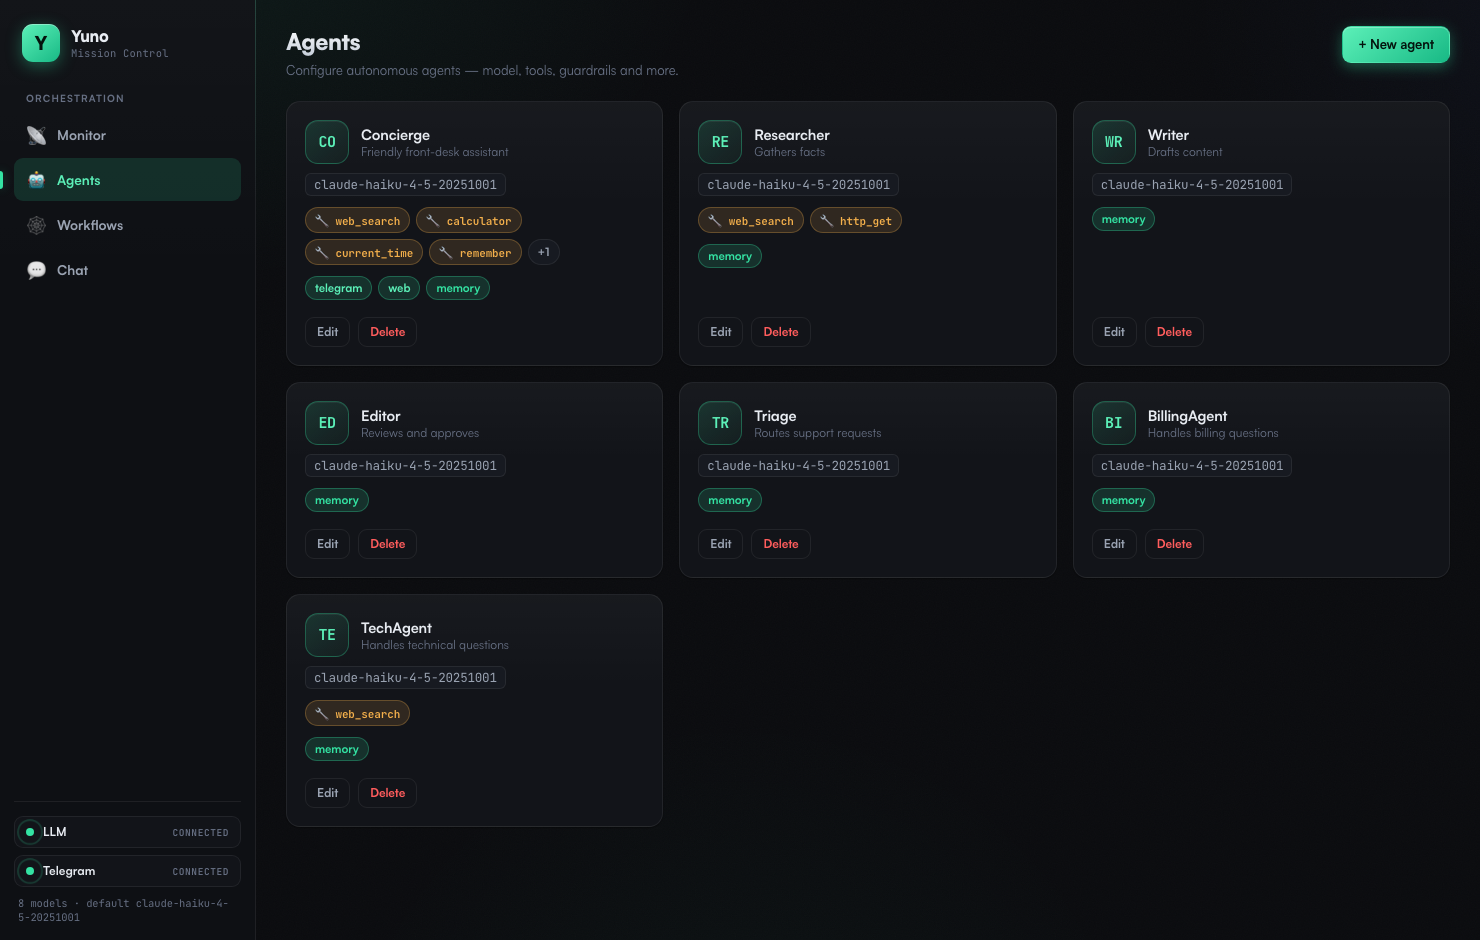
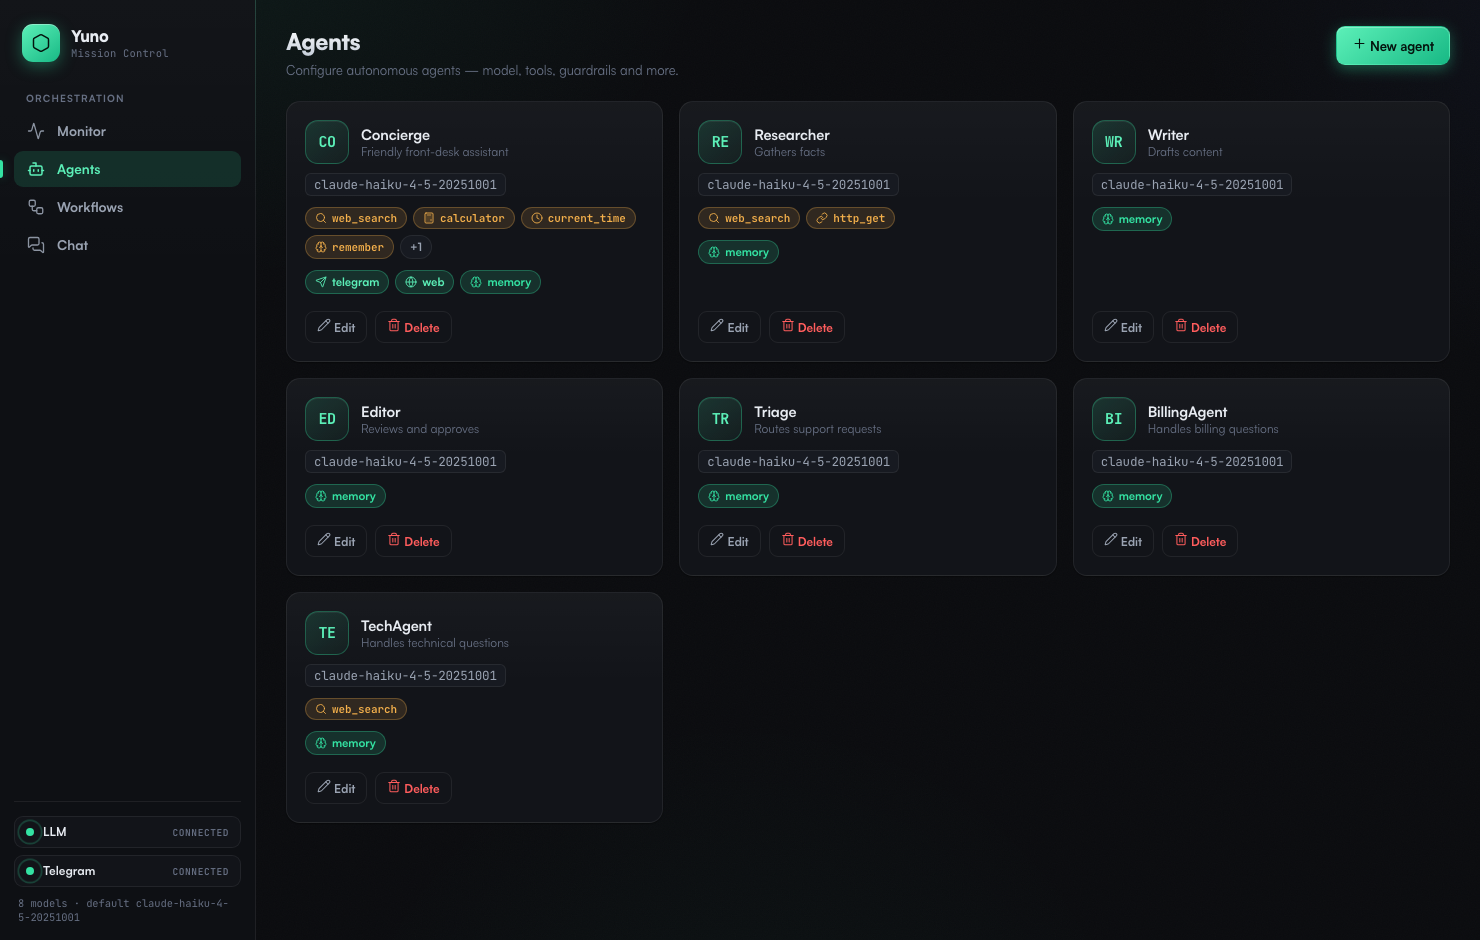
docs: add end-to-end product demo GIF + refresh screenshots (new UI)

diff --git a/scripts/record_demo.py b/scripts/record_demo.py
@@ -1,0 +1,68 @@
+"""Record a complete product demo video of the Yuno platform with Playwright,
+then it's converted to a GIF by ffmpeg (see the surrounding shell command).
+
+Flow: Monitor (trigger a live multi-agent run + watch the feed stream) →
+Agents → Workflows (open the visual builder) → Chat (send a message, see the
+Markdown-rendered reply). Records the whole session to webm.
+"""
+import asyncio
+import os
+
+BASE = os.environ.get("DEMO_BASE", "http://localhost:8030")
+OUT = os.environ.get("DEMO_OUT", "/Users/shivansh/Projects/Yuno/demo-video")
+
+
+async def main():
+    from playwright.async_api import async_playwright
+
+    async with async_playwright() as p:
+        browser = await p.chromium.launch()
+        ctx = await browser.new_context(
+            viewport={"width": 1440, "height": 900},
+            record_video_dir=OUT,
+            record_video_size={"width": 1440, "height": 900},
+            device_scale_factor=2,
+        )
+        page = await ctx.new_page()
+
+        # 1) Monitor — connect, then trigger a real multi-agent run via the API
+        await page.goto(BASE + "/", wait_until="networkidle")
+        await page.wait_for_timeout(2500)
+        wf = await page.evaluate(
+            "fetch('/api/workflows').then(r=>r.json()).then(w=>w.find(x=>x.name==='Support Triage'))"
+        )
+        await page.evaluate(
+            """(id)=>fetch('/api/runs',{method:'POST',headers:{'content-type':'application/json'},
+               body:JSON.stringify({workflow_id:id,input:'I was double-charged for my subscription and need a refund.'})})""",
+            wf["id"],
+        )
+        await page.wait_for_timeout(13000)  # watch the live feed stream agent events
+
+        # 2) Agents — config cards animate in
+        await page.get_by_role("link", name="Agents").click()
+        await page.wait_for_timeout(4000)
+
+        # 3) Workflows — open the visual builder
+        await page.get_by_role("link", name="Workflows").click()
+        await page.wait_for_timeout(2500)
+        try:
+            await page.get_by_role("button", name="Open builder").first.click()
+            await page.wait_for_timeout(5000)
+        except Exception:
+            await page.wait_for_timeout(3000)
+
+        # 4) Chat — send a message, see the Markdown-rendered reply
+        await page.get_by_role("link", name="Chat").click()
+        await page.wait_for_timeout(2000)
+        box = page.get_by_placeholder("Message the agent…")
+        await box.click()
+        await box.fill("Give me 3 quick productivity tips with a short bold label each, as a bulleted list.")
+        await box.press("Enter")
+        await page.wait_for_timeout(10000)
+
+        await ctx.close()
+        await browser.close()
+        print("video dir:", OUT)
+
+
+asyncio.run(main())

diff --git a/README.md b/README.md
@@ -13,6 +13,10 @@ token/cost), and the whole thing runs locally with **one command**.
 ### 🔗 Live demo: **https://yuno-agent-orchestration-zkju.onrender.com**
 *(Hosted on Render's free tier — the first request after idle may cold-start for ~30–60s, then it's instant.)*
 
+![Yuno platform — end-to-end demo](docs/img/demo.gif)
+
+<sub>Trigger a multi-agent run and watch it stream live → browse agents → the visual workflow builder → chat with an agent (replies render as formatted Markdown).</sub>
+
 ![Monitor — live event stream](docs/img/monitor.png)
 ![Visual workflow builder](docs/img/workflows.png)
 
